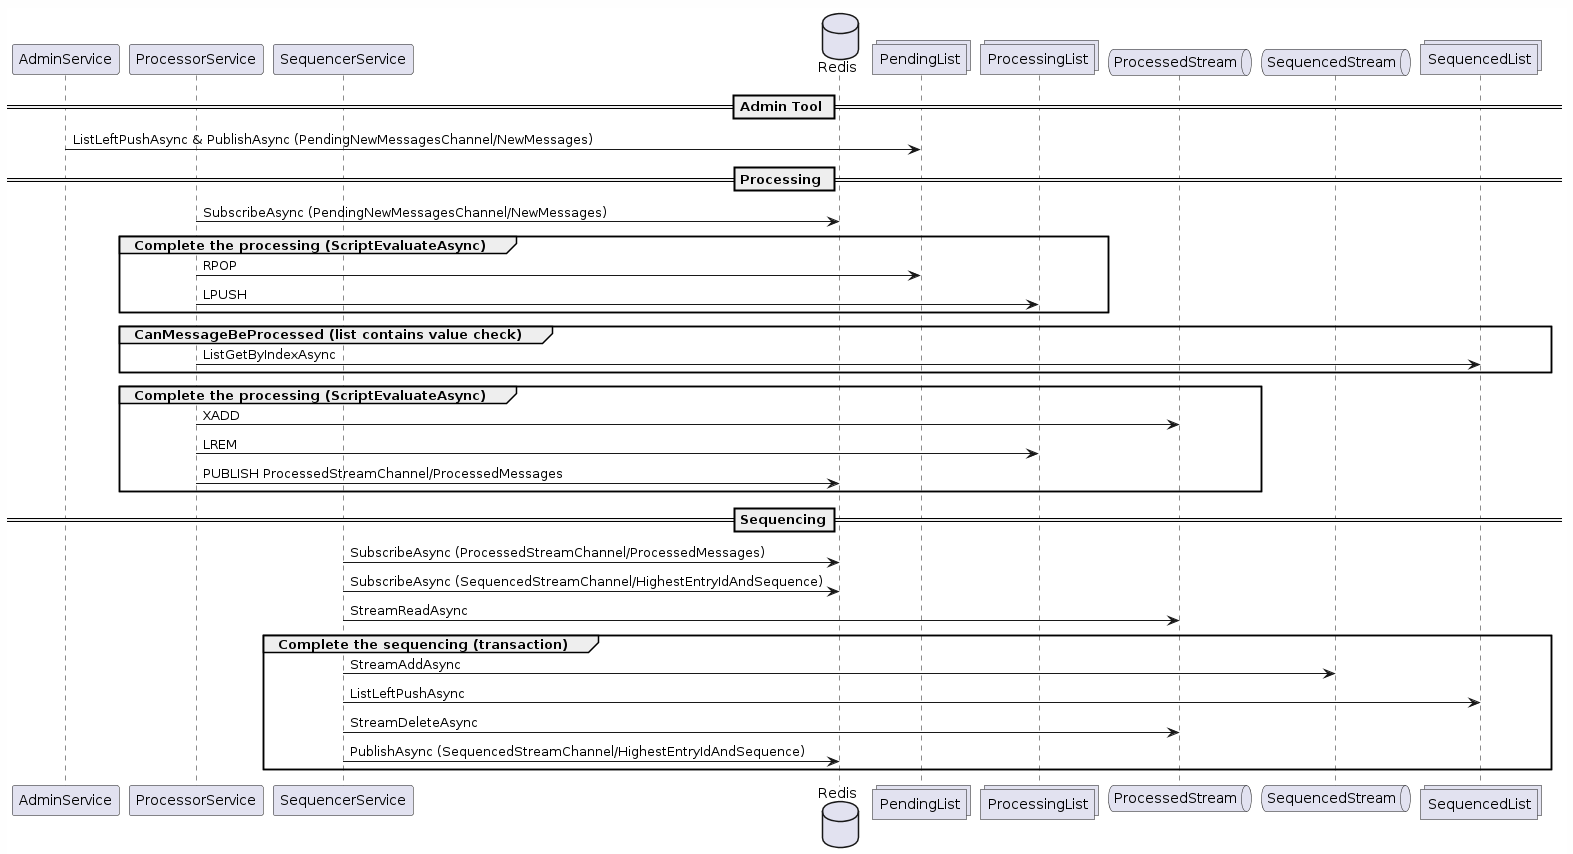
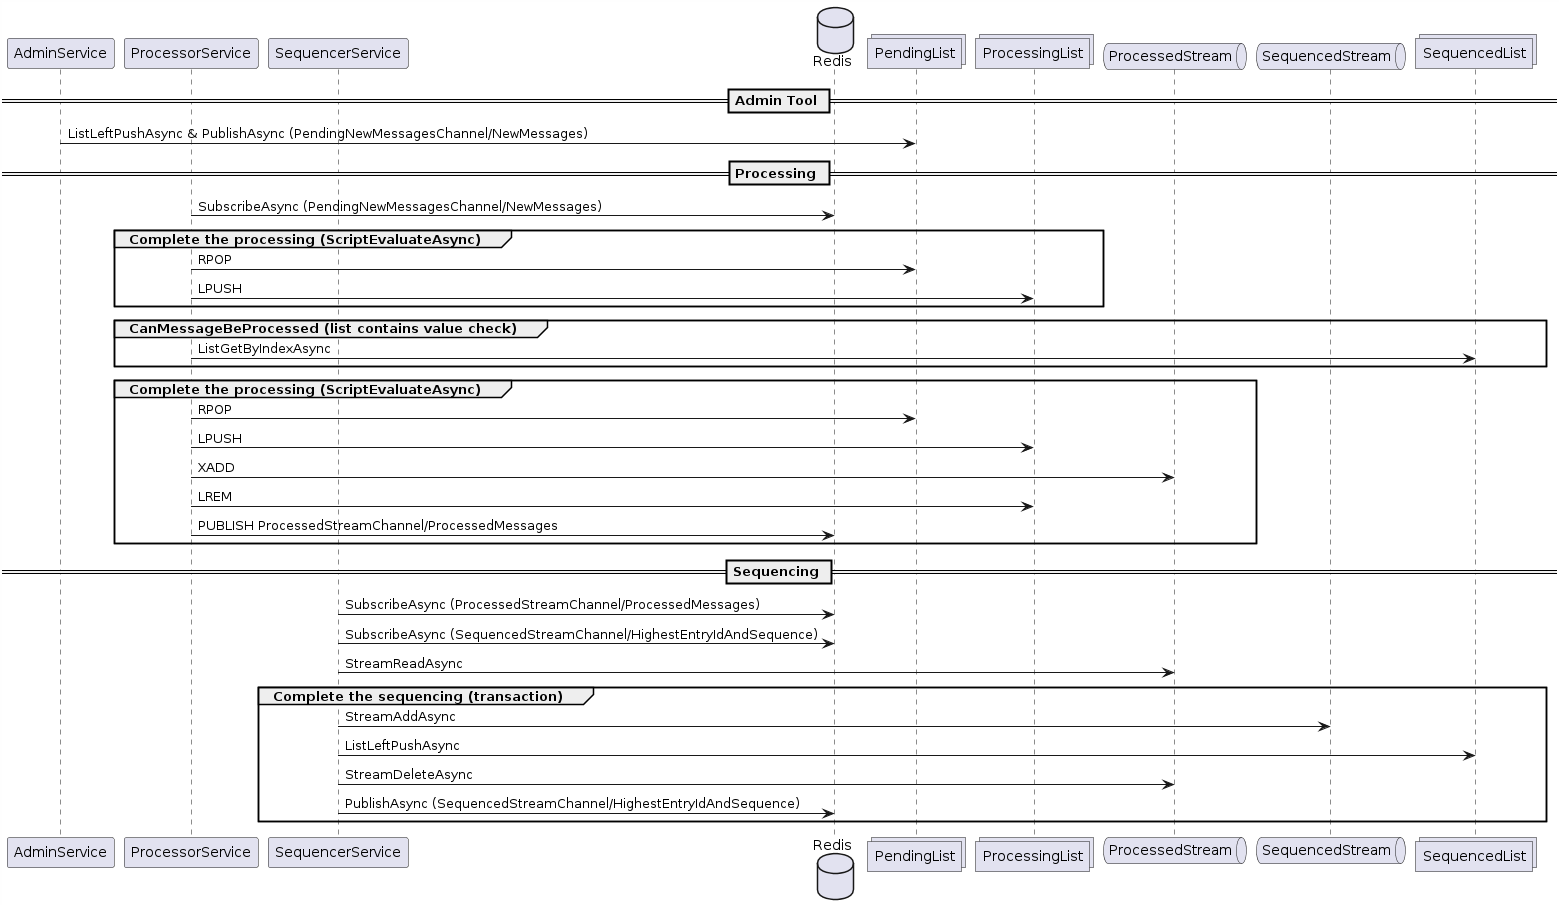
Enhanced md files, updated diagrams, fixed scripts

Changed region(s): [[0.0, 0.0, 1.0, 1.0]]

diff --git a/KNOWLEDGE_BASE.md b/KNOWLEDGE_BASE.md
@@ -1,37 +1,75 @@
 
 # Knowledge Base
 
-## AWS Serverless Redis
+## AWS Serverless Redis (limitations and related errors)
 
+Must set CommandFlags to DemandMaster when writing data to Redis
 `
 StackExchange.Redis.RedisCommandException: Command cannot be issued to a replica
- -> CommandFlags set to DemandMaster or PreferMaster
-
+`
+`
 StackExchange.Redis.RedisConnectionException: No connection (requires writable - not eligible for replica) is active/available to service this operation: RPOPLPUSH
-
-// NOTE: Conditions are not supported in AWS Serverless Redis (WATCH and UNWATCH are not available)
-// RedisCommandException: This operation has been disabled in the command-map and cannot be used: WATCH
-// LockExtendAsync -> GetLockExtendTransaction -> AddCondition
-LockTake and LockExtend and LockRelease are not available
-
-REDIS_USE_COMMAND_MAP=true to disable WATCH and UNWATCH
-// NOTE: WATCH and UNWATCH are unavailable for serverless caches according to
-// https://docs.aws.amazon.com/AmazonElastiCache/latest/red-ug/SupportedCommands.html
-// Leads to StackExchange.Redis.RedisServerException: ERR unknown command 'unwatch', with args beginning with:
-
-// NOTE: To avoid RedisCommandException -> Multi-key operations must involve a single slot; keys can use 'hash tags'
-// Needed with AWS Serverless Redis
-var channelPrefix = EnvVarReader.GetString("REDIS_CHANNEL_PREFIX", EnvVarReader.NotFound);
-          
-// NOTE: Although the channel prefix is being set, AWS Serverless Redis does not seem to support it so ChannelPrefixName is prefixed
-// Error -> StackExchange.Redis.RedisCommandException: Multi-key operations must involve a single slot; keys can use 'hash tags' to help this,
-// i.e. '{/users/12345}/account' and '{/users/12345}/contacts' will always be in the same slot
 `
 
-[notify-keyspace-events-> Keyspace events are currently not supported on serverless caches.](https://docs.aws.amazon.com/AmazonElastiCache/latest/red-ug/RedisConfiguration.html)
+Conditions are not supported in AWS Serverless Redis (WATCH and UNWATCH are not available). Thus LockTake, LockExtend, and LockRelease [commands are not supported](https://docs.aws.amazon.com/AmazonElastiCache/latest/red-ug/SupportedCommands.html). REDIS_USE_COMMAND_MAP=true to disable WATCH and UNWATCH in the env configuration file.
+`
+RedisCommandException: This operation has been disabled in the command-map and cannot be used: WATCH
+`
+LockExtendAsync -> GetLockExtendTransaction -> AddCondition
+`
+Leads to StackExchange.Redis.RedisServerException: ERR unknown command 'unwatch', with args beginning with:
+`
 
+Although the channel prefix was set, AWS Serverless Redis did not seem to support it so ChannelPrefixName string can be used as prefix by setting REDIS_CHANNEL_PREFIX in the env configuration file.      
+`
+StackExchange.Redis.RedisCommandException: Multi-key operations must involve a single slot; keys can use 'hash tags' to help this,
+    i.e. '{/users/12345}/account' and '{/users/12345}/contacts' will always be in the same slot
+`
+
+Keyspace events are currently not supported on serverless caches (see [configuration](https://docs.aws.amazon.com/AmazonElastiCache/latest/red-ug/RedisConfiguration.html)).
+
+
+## Resiliency tests with discruptor scripts
+
+### tcpkill
+
+Low impact on the connection, the library recovers snmoothly.
+
+```
+2024-06-01 07:18:55,503 [ INFO] RedisAccessLayer.RedisConnectionManager: Redis Connection Restored
+2024-06-01 07:18:55,526 [ERROR] RedisAccessLayer.RedisConnectionManager: Redis Connection Failed: StackExchange.Redis.RedisConnectionException: SocketFailure (ReadSocketError/ConnectionReset, last-recv: 5) on 172.17.0.3:6379/Interactive, Idle/Faulted, last: INFO, origin: ReadFromPipe, outstanding: 0, last-read: 0s ago, last-write: 0s ago, keep-alive: 60s, state: ConnectedEstablished, mgr: 9 of 10 available, in: 0, in-pipe: 0, out-pipe: 0, last-heartbeat: 0s ago, last-mbeat: 0s ago, global: 0s ago, v: 2.6.122.38350
+ ---> Pipelines.Sockets.Unofficial.ConnectionResetException: Connection reset by peer
+ ---> System.Net.Sockets.SocketException (104): Connection reset by peer
+   at Pipelines.Sockets.Unofficial.Internal.Throw.Socket(Int32 errorCode) in /_/src/Pipelines.Sockets.Unofficial/Internal/Throw.cs:line 59
+   at Pipelines.Sockets.Unofficial.SocketConnection.DoReceiveAsync() in /_/src/Pipelines.Sockets.Unofficial/SocketConnection.Receive.cs:line 64
+   --- End of inner exception stack trace ---
+   at System.IO.Pipelines.PipeCompletion.ThrowLatchedException()
+   at System.IO.Pipelines.Pipe.GetReadAsyncResult()
+   at StackExchange.Redis.PhysicalConnection.ReadFromPipe()
+   --- End of inner exception stack trace ---
+```
+
+## ss
+
+Low impact on the connection, the library recovers snmoothly.
+
+```
+2024-06-01 07:25:48,383 [ INFO] RedisAccessLayer.RedisConnectionManager: Redis Connection Restored
+2024-06-01 07:25:48,396 [ERROR] RedisAccessLayer.RedisConnectionManager: Redis Internal Error: Pipelines.Sockets.Unofficial.ConnectionAbortedException: The connection was aborted
+   at System.IO.Pipelines.PipeCompletion.ThrowLatchedException()
+   at System.IO.Pipelines.Pipe.GetReadAsyncResult()
+   at StackExchange.Redis.PhysicalConnection.ReadFromPipe()
+2024-06-01 07:25:48,396 [ERROR] RedisAccessLayer.RedisConnectionManager: Redis Connection Failed: StackExchange.Redis.RedisConnectionException: InternalFailure (ReadSocketError/ConnectionAborted, last-recv: 7) on 172.17.0.3:6379/Interactive, Idle/Faulted, last: PING, origin: ReadFromPipe, outstanding: 0, last-read: 0s ago, last-write: 0s ago, keep-alive: 60s, state: ConnectedEstablished, mgr: 9 of 10 available, in: 0, in-pipe: 0, out-pipe: 0, last-heartbeat: 0s ago, last-mbeat: 0s ago, global: 0s ago, v: 2.6.122.38350
+ ---> Pipelines.Sockets.Unofficial.ConnectionAbortedException: The connection was aborted
+   at System.IO.Pipelines.PipeCompletion.ThrowLatchedException()
+   at System.IO.Pipelines.Pipe.GetReadAsyncResult()
+   at StackExchange.Redis.PhysicalConnection.ReadFromPipe()
+   --- End of inner exception stack trace ---
+```
 
 ## bdg
+
+High impact on the connection, they need to be re-created.
 
 ```
 StackExchange.Redis.RedisTimeoutException: Timeout awaiting response (outbound=0KiB, inbound=0KiB, 5636ms elapsed, timeout is 5000ms), command=EVAL, next: EVAL, inst: 0, qu: 0, qs: 1, aw: False, bw: Inactive, rs: ReadAsync, ws: Idle, in: 0, in-pipe: 0, out-pipe: 0, last-in: 0, cur-in: 0, sync-ops: 0, async-ops: 170, serverEndpoint: 172.17.0.3:6379, conn-sec: 25.16, aoc: 0, mc: 1/1/0, mgr: 10 of 10 available, clientName: seq-client-claude-virtualbox-25923, IOCP: (Busy=0,Free=1000,Min=1,Max=1000), WORKER: (Busy=1,Free=32766,Min=4,Max=32767), POOL: (Threads=5,QueuedItems=0,CompletedItems=1182,Timers=1), v: 2.6.122.38350 (Please take a look at this article for some common client-side issues that can cause timeouts: https://stackexchange.github.io/StackExchange.Redis/Timeouts)
@@ -42,7 +80,6 @@ Redis Internal Error: Pipelines.Sockets.Unofficial.ConnectionAbortedException: T
    at System.IO.Pipelines.PipeCompletion.ThrowLatchedException()
    at System.IO.Pipelines.Pipe.GetReadAsyncResult()
    at StackExchange.Redis.PhysicalConnection.ReadFromPipe()
-
 
 Redis Connection Failed: StackExchange.Redis.RedisConnectionException: InternalFailure (ReadSocketError/OperationAborted, last-recv: 42) on 172.17.0.3:6379/Subscription, Idle/Faulted, last: SUBSCRIBE, origin: ReadFromPipe, outstanding: 0, last-read: 0s ago, last-write: 13s ago, keep-alive: 60s, state: ConnectedEstablished, mgr: 9 of 10 available, in: 0, in-pipe: 0, out-pipe: 0, last-heartbeat: 0s ago, last-mbeat: 0s ago, global: 0s ago, v: 2.6.122.38350
  ---> Pipelines.Sockets.Unofficial.ConnectionAbortedException: The connection was aborted
@@ -60,6 +97,7 @@ Redis Connection Failed: StackExchange.Redis.RedisConnectionException: InternalF
    at StackExchange.Redis.Message.CommandMessage.WriteImpl(PhysicalConnection physical) in /_/src/StackExchange.Redis/Message.cs:line 1395
    at StackExchange.Redis.Message.WriteTo(PhysicalConnection physical) in /_/src/StackExchange.Redis/Message.cs:line 699
 ```
+
 
 ## DOTNET
 

diff --git a/README.md b/README.md
@@ -48,3 +48,70 @@ Design and implement a message processing system that is resilient, performant, 
 ## By relaxing the ordering constraint
 1. Remove the Sequencing service to significantly increase performance
 2. Create a Dead Letter Queue when processing fails a few time or encounter specific exceptions
+
+## Important files
+
+Processor Service
+- [Processor.cs](Services/ProcessorService/Processor.cs)
+- [PendingListToProcessedListListener.cs](DataAccessLayers/RedisAccessLayer/Client/PendingListToProcessedListListener.cs)
+
+Sequencer Service
+- [Sequencer.cs](Services/SequencerService/Sequencer.cs)
+- [ProcessedListToSequencedListListener.cs](DataAccessLayers/RedisAccessLayer/Client/ProcessedListToSequencedListListener.cs)
+
+Locks
+- [NativeLock.cs](DataAccessLayers/RedisAccessLayer/Locks/NativeLock.cs) for normal Redis
+- [AtomicCustomLock.cs](DataAccessLayers/RedisAccessLayer/Locks/AtomicCustomLock.cs) for AWS ElastiCache Serverless Redis
+
+## Diagrams
+
+### Architecture
+
+1. The input FIFO queue (Pending List) is where messages are stored and retrieved by the processors
+2. The Processor services (Active-Active) perform parallel processing of messages from the input FIFO queue (can be scaled as needed) then write processed messages to a Processed Stream
+3. The Sequencer services (Active-Standby/Masters-Slave) are responsible for maintaining the original sequence order of the messages. They read messages from the Processed Stream and write them to an output FIFO queue (Sequenced List), ensuring the original sequence order is preserved
+4. Operations on Lists and Streams are follow by the publication of events on channels to avoid many unwanted short pollings requests by services
+5. A database can be used as the system of record for storing processed messages (much slower than saving into Redis so it has been made optional)
+
+![Architecture Diagram](Diagrams/architecture-diagram.png)
+
+### Sequence
+
+This sequence diagram represents the interactions and flow of messages between services and Redis for storage and communication.
+
+*Admin Tool*
+
+1. The AdminService sends messages to the PendingList using the `ListLeftPushAsync` operation
+2. It also publishes a notification to the `PendingNewMessagesChannel/NewMessages` channel using `PublishAsync`
+
+*Processing*
+
+1. The ProcessorService subscribes to the `PendingNewMessagesChannel/NewMessages` channel to receive notifications about new messages
+2. It performs the following steps in the "Complete the processing" group using `ScriptEvaluateAsync`:
+   - Removes the message from the PendingList using `RPOP`
+   - Adds the message to the ProcessingList using `LPUSH`
+3. Before processing a message, it checks if the message can be processed in the "CanMessageBeProcessed" group by retrieving the corresponding value from the SequencedList using `ListGetByIndexAsync`
+4. If the message can be processed, the ProcessorService performs the following steps in the "Complete the processing" group using `ScriptEvaluateAsync`:
+   - Removes the message from the PendingList using `RPOP`
+   - Adds the message to the ProcessingList using `LPUSH`
+   - Processes the message and adds it to the ProcessedStream using `XADD`
+   - Removes the message from the ProcessingList using `LREM`
+   - Publishes a notification to the `ProcessedStreamChannel/ProcessedMessages` channel using `PUBLISH`
+
+*Sequencing*
+
+1. The SequencerService subscribes to two channels:
+   - `ProcessedStreamChannel/ProcessedMessages` to receive notifications about processed messages
+   - `SequencedStreamChannel/HighestEntryIdAndSequence` to receive notifications about the highest sequenced entry ID
+2. It reads the processed messages from the ProcessedStream using `StreamReadAsync`
+3. To maintain the original order, the SequencerService performs the following steps in the "Complete the sequencing" group using a transaction:
+   - Adds the message to the SequencedStream using `StreamAddAsync`
+   - Adds the message to the SequencedList using `ListLeftPushAsync`
+   - Deletes the message from the ProcessedStream using `StreamDeleteAsync`
+   - Publishes the highest entry ID and sequence to the `SequencedStreamChannel/HighestEntryIdAndSequence` channel using `PublishAsync`
+
+![Sequence Diagram](Diagrams/sequence_lists-and-streams.png)
+
+The diagram shows the flow of messages from the AdminService to the PendingList, then to the ProcessorService for processing. The processed messages are added to the ProcessedStream and then sequenced by the SequencerService. The SequencerService maintains the original order of messages and adds them to the SequencedStream and SequencedList.
+
+The use of publish/subscribe channels allows for communication and coordination between the services. The ProcessorService subscribes to the PendingNewMessagesChannel/NewMessages channel to receive notifications about new messages, while the SequencerService subscribes to the ProcessedStreamChannel/ProcessedMessages and SequencedStreamChannel/HighestEntryIdAndSequence channels to receive notifications about processed messages and the highest sequenced entry ID, respectively.

diff --git a/RUN.md b/RUN.md
@@ -7,9 +7,28 @@ sh buildDotnetServices.sh Release
 sh testAllDotnetLocally.sh
 ```
 
+```
+NB_PROCESSORS=10
+NB_SEQUENCERS=3
+NB_MESSAGES=300
+CREATION_DELAY_MS=50
+PROCESSING_DELAY_MS=500
+```
 Stats from 201 to 300
 ```json
-{"start":201,"count":100,"stats":{"createdToProcessingStats":{"50p":2,"90p":4,"95p":4,"99p":5.01,"avg":2.18,"min":0,"max":6},"processingToProcessedStats":{"50p":505,"90p":509,"95p":510.05,"99p":513.03,"avg":505.46,"min":500,"max":516},"processedToSequencingStats":{"50p":6,"90p":10,"95p":12,"99p":14.02,"avg":6.44,"min":2,"max":16},"sequencingToSavedStats":{"50p":0,"90p":1,"95p":1,"99p":3.02,"avg":0.37,"min":0,"max":5},"savedToSequencedStats":{"50p":0,"90p":0,"95p":0.05,"99p":1.03,"avg":0.08,"min":0,"max":4},"processingToSequencedStats":{"50p":512,"90p":518,"95p":520,"99p":521.03,"avg":512.35,"min":503,"max":524},"createdToSequencedStats":{"50p":514,"90p":520,"95p":522.05,"99p":525,"avg":514.53,"min":506,"max":525},"maxCreatedToProcessingSeq":{"max":6,"seq":201},"maxProcessingToProcessedSeq":{"max":516,"seq":254},"maxProcessedToSequencingSeq":{"max":16,"seq":240},"maxSequencingToSavedSeq":{"max":5,"seq":284},"maxSavedToSequencedSeq":{"max":4,"seq":277},"maxCreatedToSequencedSeq":{"max":525,"seq":234}},"check":{"firstSeq":201,"lastSeq":300,"isOrdered":true,"brokenAfter":null,"brokenSeq":null,"ordered":[201,202,203,204,205,206,207,208,209,210,211,212,213,214,215,216,217,218,219,220,221,222,223,224,225,226,227,228,229,230,231,232,233,234,235,236,237,238,239,240,241,242,243,244,245,246,247,248,249,250,251,252,253,254,255,256,257,258,259,260,261,262,263,264,265,266,267,268,269,270,271,272,273,274,275,276,277,278,279,280,281,282,283,284,285,286,287,288,289,290,291,292,293,294,295,296,297,298,299,300],"others":[]}}
+{"start":201,"count":100,"stats":{"createdToProcessingStats":{"50p":3,"90p":4,"95p":5,"99p":5.01,"avg":3.03,"min":1,"max":6},"processingToProcessedStats":{"50p":503,"90p":507,"95p":508.05,"99p":510.03,"avg":503.59,"min":499,"max":513},"processedToSequencingStats":{"50p":3,"90p":4.1,"95p":5,"99p":6.03,"avg":3.57,"min":1,"max":9},"sequencingToSavedStats":{"50p":0,"90p":1,"95p":1,"99p":1,"avg":0.21,"min":0,"max":1},"savedToSequencedStats":{"50p":0,"90p":0,"95p":0,"99p":0.01,"avg":0.01,"min":0,"max":1},"processingToSequencedStats":{"50p":507,"90p":511,"95p":513,"99p":515.02,"avg":507.38,"min":502,"max":517},"createdToSequencedStats":{"50p":510,"90p":514,"95p":515.05,"99p":518.02,"avg":510.41,"min":504,"max":520},"maxCreatedToProcessingSeq":{"max":6,"seq":275},"maxProcessingToProcessedSeq":{"max":513,"seq":282},"maxProcessedToSequencingSeq":{"max":9,"seq":205},"maxSequencingToSavedSeq":{"max":1,"seq":204},"maxSavedToSequencedSeq":{"max":1,"seq":216},"maxCreatedToSequencedSeq":{"max":520,"seq":282}},"check":{"firstSeq":201,"lastSeq":300,"isOrdered":true,"brokenAfter":null,"brokenSeq":null,"ordered":[201,202,203,204,205,206,207,208,209,210,211,212,213,214,215,216,217,218,219,220,221,222,223,224,225,226,227,228,229,230,231,232,233,234,235,236,237,238,239,240,241,242,243,244,245,246,247,248,249,250,251,252,253,254,255,256,257,258,259,260,261,262,263,264,265,266,267,268,269,270,271,272,273,274,275,276,277,278,279,280,281,282,283,284,285,286,287,288,289,290,291,292,293,294,295,296,297,298,299,300],"others":[]}}
+```
+
+```
+NB_PROCESSORS=10
+NB_SEQUENCERS=3
+NB_MESSAGES=300
+CREATION_DELAY_MS=0
+PROCESSING_DELAY_MS=500
+```
+Stats from 201 to 300
+```json
+{"start":201,"count":100,"stats":{"createdToProcessingStats":{"50p":12558,"90p":14404.8,"95p":14847.3,"99p":14859.06,"avg":12564.04,"min":10233,"max":14865},"processingToProcessedStats":{"50p":504,"90p":508,"95p":510.05,"99p":520,"avg":504.64,"min":499,"max":520},"processedToSequencingStats":{"50p":6,"90p":11.1,"95p":12.05,"99p":17.01,"avg":7.04,"min":1,"max":18},"sequencingToSavedStats":{"50p":0,"90p":1,"95p":1,"99p":4.02,"avg":0.29,"min":0,"max":6},"savedToSequencedStats":{"50p":0,"90p":0,"95p":0,"99p":0,"avg":0,"min":0,"max":0},"processingToSequencedStats":{"50p":511,"90p":517,"95p":521,"99p":528,"avg":511.97,"min":503,"max":528},"createdToSequencedStats":{"50p":13072,"90p":14912.1,"95p":15364.2,"99p":15368.09,"avg":13076.01,"min":10743,"max":15377},"maxCreatedToProcessingSeq":{"max":14865,"seq":300},"maxProcessingToProcessedSeq":{"max":520,"seq":211},"maxProcessedToSequencingSeq":{"max":18,"seq":245},"maxSequencingToSavedSeq":{"max":6,"seq":253},"maxSavedToSequencedSeq":{"max":0,"seq":201},"maxCreatedToSequencedSeq":{"max":15377,"seq":300}},"check":{"firstSeq":201,"lastSeq":300,"isOrdered":true,"brokenAfter":null,"brokenSeq":null,"ordered":[201,202,203,204,205,206,207,208,209,210,211,212,213,214,215,216,217,218,219,220,221,222,223,224,225,226,227,228,229,230,231,232,233,234,235,236,237,238,239,240,241,242,243,244,245,246,247,248,249,250,251,252,253,254,255,256,257,258,259,260,261,262,263,264,265,266,267,268,269,270,271,272,273,274,275,276,277,278,279,280,281,282,283,284,285,286,287,288,289,290,291,292,293,294,295,296,297,298,299,300],"others":[]}}
 ```
 
 ## Running docker containers
@@ -36,6 +55,6 @@ Refer to [AWS.md](AWS.md)
 
 ## Running unit tests
 
-
+```
 dotnet test
 ```

diff --git a/WebServices/AdminWebPortal/NOTES.md b/WebServices/AdminWebPortal/NOTES.md
@@ -1,18 +1,27 @@
 
-https://learn.microsoft.com/en-us/aspnet/core/getting-started/?view=aspnetcore-8.0&tabs=windows
-dotnet new webapp --name PROJECT_NAME --language "C#"
+# Notes
 
-https://learn.microsoft.com/en-us/aspnet/core/fundamentals/minimal-apis?view=aspnetcore-8.0
+## C# .NET Core
+
+[Tutorial: Get started with ASP.NET Core](https://learn.microsoft.com/en-us/aspnet/core/getting-started/?view=aspnetcore-8.0&tabs=windows)
+```
+dotnet new webapp --name PROJECT_NAME --language "C#"
+```
+
+[Minimal APIs quick reference](https://learn.microsoft.com/en-us/aspnet/core/fundamentals/minimal-apis?view=aspnetcore-8.0)
+```
 dotnet new webapi --name PROJECT_NAME --language "C#"
 dotnet dev-certs https --trust
 dotnet watch run
 dotnet run --launch-profile https
+```
 
+[Automate VS Code terminal](https://code.visualstudio.com/docs/terminal/basics#_automating-terminals-with-tasks)
 
---- REQUESTS
+## Requests
 
+```
 curl -s --raw --show-error --verbose -X GET http://localhost:5000/
-
 curl -X GET http://localhost:5000/
 curl -X GET http://localhost:5000/healthz
 curl -X DELETE http://localhost:5000/list/sequencer/messages?name=poc
@@ -27,18 +36,15 @@ curl -X GET http://localhost:5000/stream/pending/messages?name=poc
 curl -X GET http://localhost:5000/stream/processed/messages?name=poc
 curl -X GET http://localhost:5000/list/stats?name=poc
 #curl -X GET http://localhost:5000/database/messages?name=poc
+```
 
+## Docker
 
---- AUTOMATE TERMINAL
-
-https://code.visualstudio.com/docs/terminal/basics#_automating-terminals-with-tasks
-
-
---- DOCKER
-
+```
 docker build -f ./Dockerfile --pull --progress=plain --no-cache -t adminwebportal ../..
 docker build -f ./Dockerfile --pull --progress=plain -t adminwebportal ../..
 docker build -f ./Dockerfile --pull -t adminwebportal ../..
 docker run -it -p 8080:8080 adminwebportal
 
 docker network ls | grep "bridge" | awk '{print $1}'
+```
